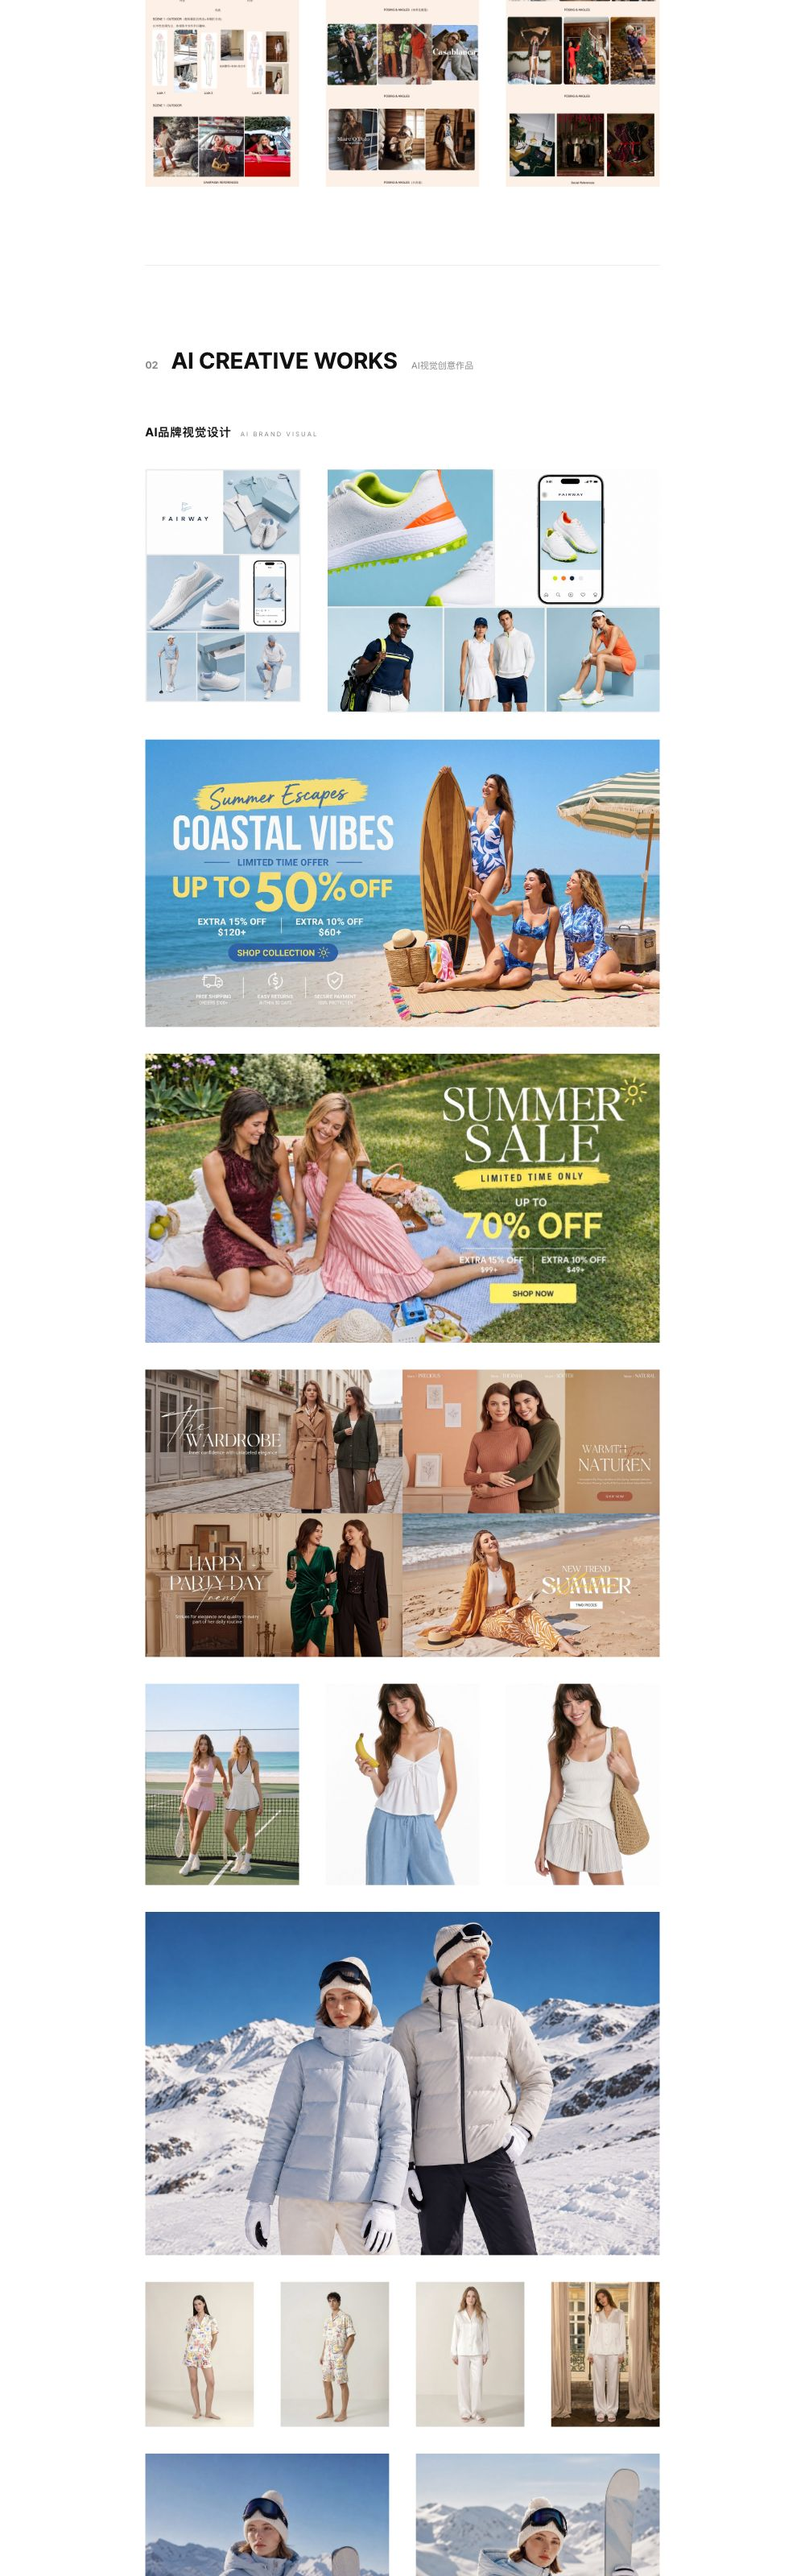
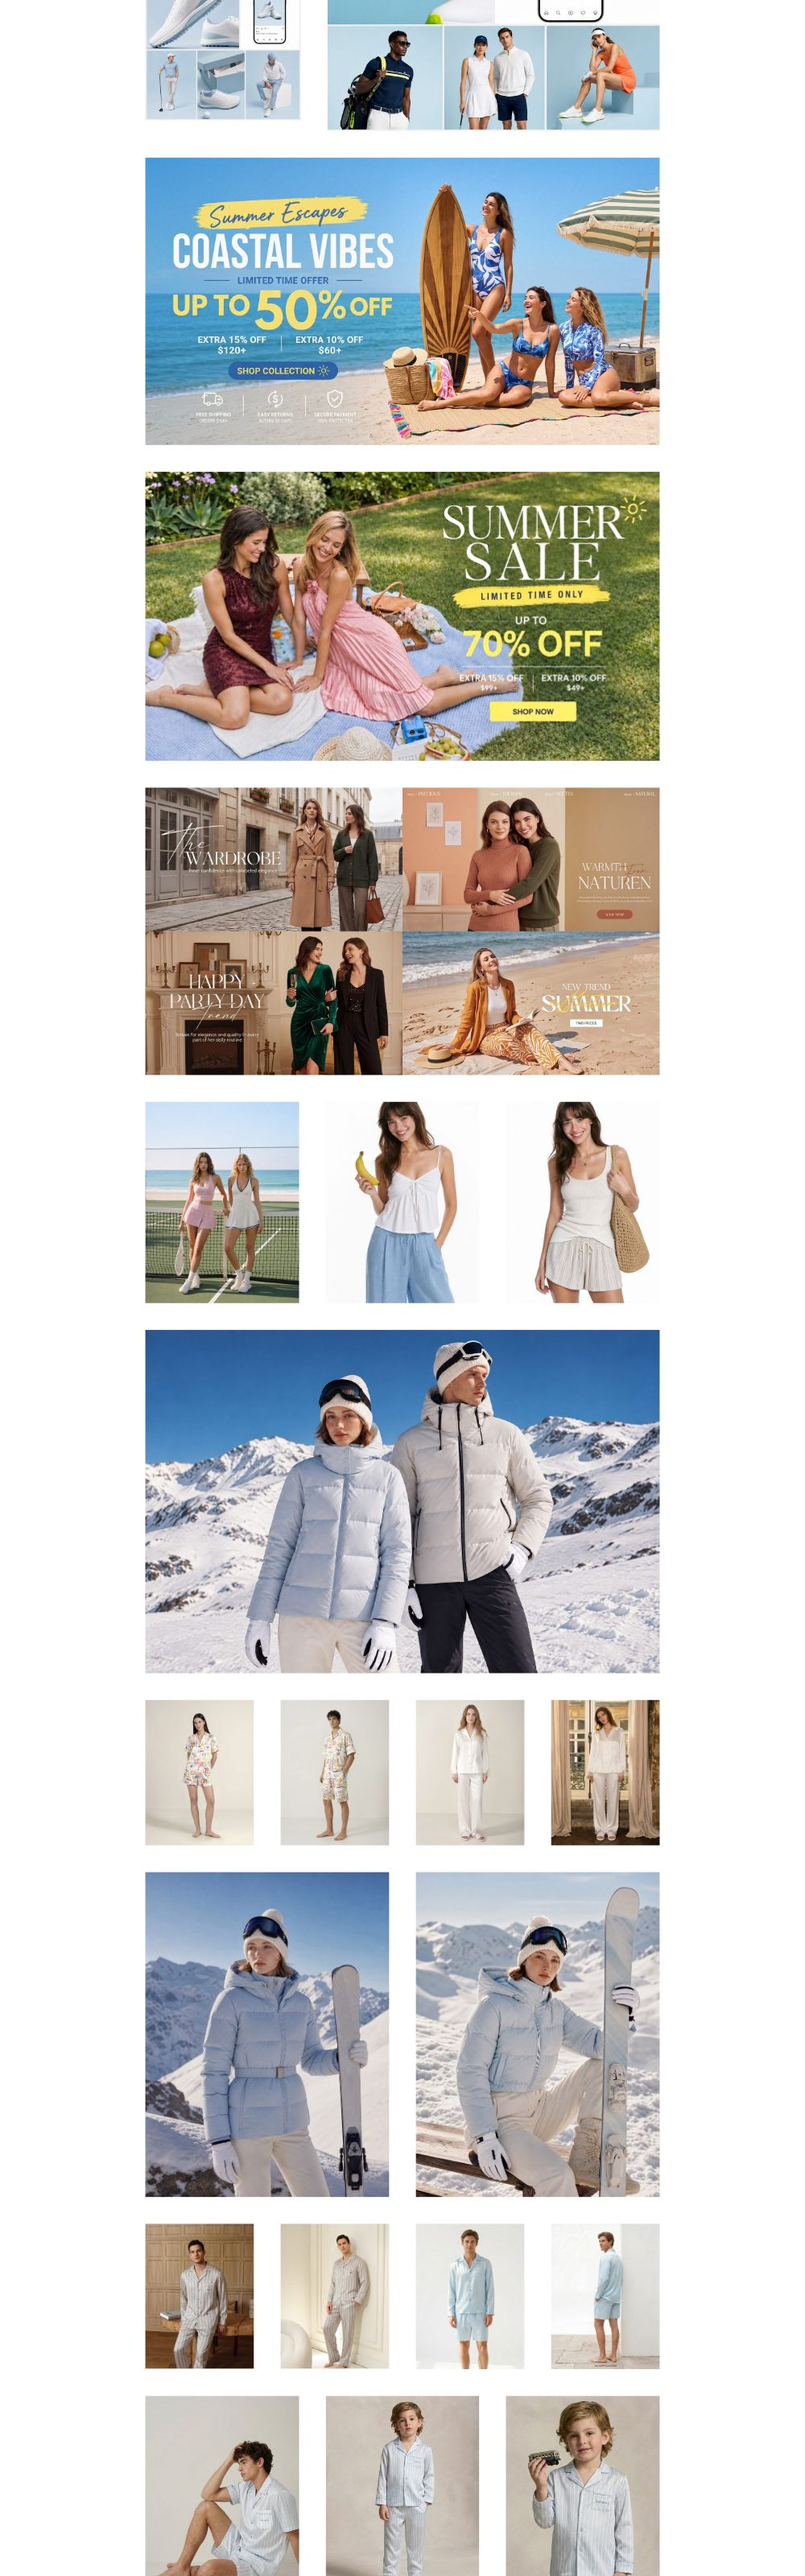
两页拍摄图改不规则grid大小错落排版

diff --git a/index.html b/index.html
@@ -102,9 +102,19 @@ a{color:inherit;text-decoration:none}
   .about-r{align-items:flex-start}
 }
 
-.masonry{columns:2;column-gap:var(--row-gap)}
-.masonry .it{break-inside:avoid;margin-bottom:var(--row-gap);display:block}
-.masonry .it img{width:100%;height:auto;object-fit:cover}
+.scatter{display:grid;grid-template-columns:repeat(12,1fr);gap:var(--row-gap);align-items:start}
+.scatter .it{position:relative;overflow:hidden}
+.scatter .it img{width:100%;height:100%;object-fit:cover;display:block}
+/* 组1: 左大竖图 / 中竖图上下 / 右中竖图 */
+.s1 .a{grid-column:1/span 4;grid-row:span 2}
+.s1 .b{grid-column:5/span 4}
+.s1 .c{grid-column:5/span 4;margin-top:calc(var(--row-gap)*-1)}
+.s1 .d{grid-column:9/span 4;grid-row:span 2}
+/* 组2 镜像 */
+.s2 .a{grid-column:1/span 5}
+.s2 .b{grid-column:6/span 4;grid-row:span 2}
+.s2 .c{grid-column:10/span 3}
+.s2 .d{grid-column:10/span 3;margin-top:calc(var(--row-gap)*-1)}
 </style>
 </head>
 <body>
@@ -187,18 +197,18 @@ a{color:inherit;text-decoration:none}
       <div class="it"><img src="assets/img/p-9-2.jpg" alt="视觉项目 09-2" loading="eager"></div>
     </div>
 
-        <div class="masonry">
-      <div class="it"><img src="assets/img/p-11-1.jpg" alt="拍摄 11-1" loading="eager"></div>
-      <div class="it"><img src="assets/img/p-11-2.jpg" alt="拍摄 11-2" loading="eager"></div>
-      <div class="it"><img src="assets/img/p-11-3.jpg" alt="拍摄 11-3" loading="eager"></div>
-      <div class="it"><img src="assets/img/p-11-4.jpg" alt="拍摄 11-4" loading="eager"></div>
+        <div class="scatter s1">
+      <div class="it a"><img src="assets/img/p-11-1.jpg" alt="拍摄 11-1" loading="eager"></div>
+      <div class="it b"><img src="assets/img/p-11-2.jpg" alt="拍摄 11-2" loading="eager"></div>
+      <div class="it c"><img src="assets/img/p-11-3.jpg" alt="拍摄 11-3" loading="eager"></div>
+      <div class="it d"><img src="assets/img/p-11-4.jpg" alt="拍摄 11-4" loading="eager"></div>
     </div>
 
-    <div class="masonry">
-      <div class="it"><img src="assets/img/p-12-1.jpg" alt="拍摄 12-1" loading="eager"></div>
-      <div class="it"><img src="assets/img/p-12-2.jpg" alt="拍摄 12-2" loading="eager"></div>
-      <div class="it"><img src="assets/img/p-12-3.jpg" alt="拍摄 12-3" loading="eager"></div>
-      <div class="it"><img src="assets/img/p-12-4.jpg" alt="拍摄 12-4" loading="eager"></div>
+    <div class="scatter s2">
+      <div class="it a"><img src="assets/img/p-12-1.jpg" alt="拍摄 12-1" loading="eager"></div>
+      <div class="it b"><img src="assets/img/p-12-2.jpg" alt="拍摄 12-2" loading="eager"></div>
+      <div class="it c"><img src="assets/img/p-12-3.jpg" alt="拍摄 12-3" loading="eager"></div>
+      <div class="it d"><img src="assets/img/p-12-4.jpg" alt="拍摄 12-4" loading="eager"></div>
     </div>
 
     <div class="row r-3">
